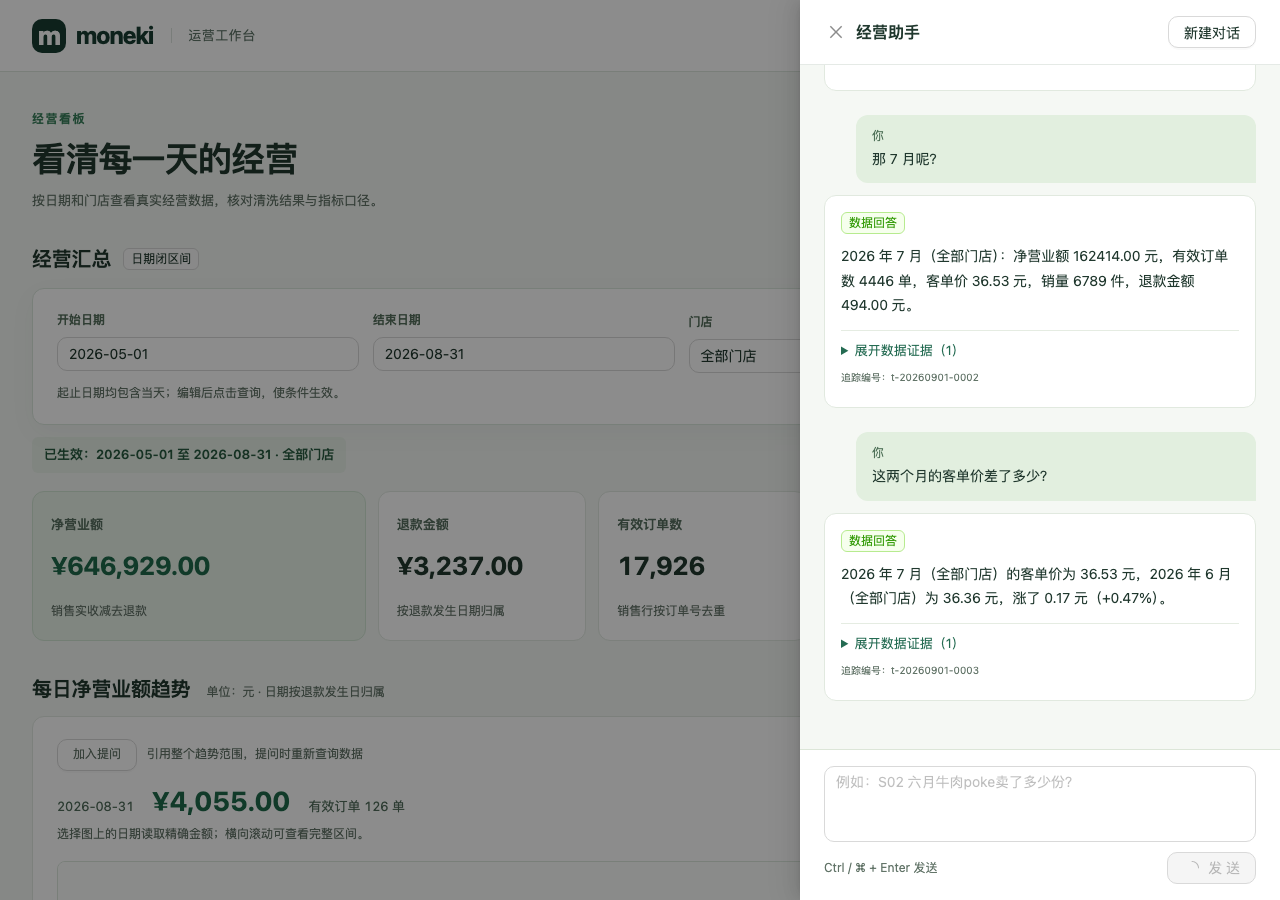
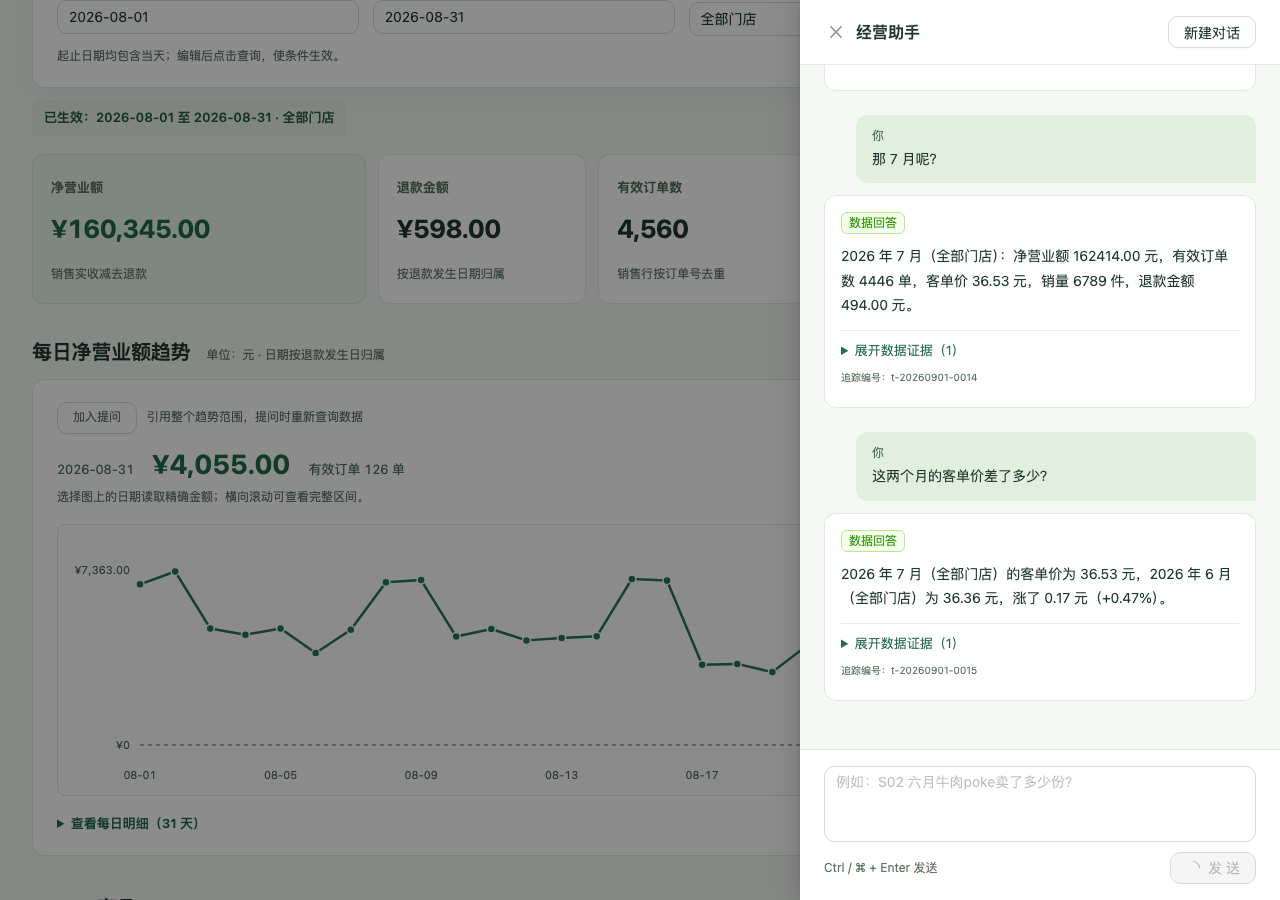
test(chat): verify dashboard filter changes do not alter follow-ups
Change the applied dashboard date between the first answer and the follow-up in actual browsers at three widths. Preserve the resulting request, response, trace, and screenshots to show the session continues with its own context and sends no implicit dashboard attachment.

Agent-Task: G3-04 / Issue #27 浏览器连续追问与筛选隔离验收
Agent-Model: GPT-6 Sol
Agent-Decision: Exercise a real applied dashboard filter change during the original T01 conversation so the acceptance checks the visible UI boundary.
Agent-Limitation: Browser run uses no-Key business execution; real-model semantic coverage remains the three authorized T01 chats only.

diff --git a/frontend/tests/g3-session-context.spec.ts b/frontend/tests/g3-session-context.spec.ts
@@ -12,12 +12,21 @@ for (const width of [1280, 1440, 390]) {
     await page.goto('/');
     await page.getByRole('button', { name: '经营助手', exact: true }).click();
     const turns = [];
-    for (const question of ['6 月的净营业额是多少？', '那 7 月呢？', '这两个月的客单价差了多少？']) {
+    for (const [index, question] of ['6 月的净营业额是多少？', '那 7 月呢？', '这两个月的客单价差了多少？'].entries()) {
+      if (index === 1) {
+        await page.getByRole('button', { name: 'Close' }).click();
+        await page.getByRole('textbox', { name: '开始日期' }).fill('2026-08-01');
+        await page.getByRole('textbox', { name: '结束日期' }).fill('2026-08-31');
+        await page.getByRole('button', { name: '查询汇总' }).click();
+        await expect(page.getByTestId('applied-filters')).toContainText('2026-08-01');
+        await page.getByRole('button', { name: '经营助手', exact: true }).click();
+      }
       await page.getByLabel('经营问题').fill(question);
       const sent = page.waitForRequest(r => r.url().endsWith('/api/chat'));
       const received = page.waitForResponse(r => r.url().endsWith('/api/chat'));
       await page.getByRole('button', { name: '发送', exact: true }).click();
       const payload = (await sent).postDataJSON();
+      expect(Object.keys(payload).sort()).toEqual(['question', 'session_id']);
       const answer = await (await received).json();
       const trace = await (await request.get(`/api/trace/${answer.trace_id}`)).json();
       turns.push({ payload, answer, trace });

diff --git a/docs/verification/g3-04/README.md b/docs/verification/g3-04/README.md
@@ -20,7 +20,7 @@
 
 独立运行 `.venv/bin/python -m pytest docs/verification/g3-04/test_session_context.py -q`，覆盖四组原顺序、替换门店/商品/月份、主题切换、澄清补充、拒答与异常断开旧语义、不同会话交错/API 并发、同会话等待、淘汰/重启/匿名、受控 live 工具调用。`starter/tests/conftest.py` 全局替换检索器，故原 53 项与本测试必须分进程运行。
 
-`browser/multiturn-{1280,1440,390}.json` 保存实际浏览器逐轮请求、响应与后端 trace；同名 PNG 保存聊天视图。`frontend/tests/g3-session-context.spec.ts` 同时核验新对话 ID、无上文澄清、旧请求迟到不进入新会话。看板筛选仍只由用户显式附加趋势引用进入聊天。刷新/服务重启后内存上下文不保证存在，欢迎页提示用户补全条件。
+`browser/multiturn-{1280,1440,390}.json` 保存实际浏览器逐轮请求、响应与后端 trace；同名 PNG 保存聊天视图。`frontend/tests/g3-session-context.spec.ts` 在首轮与追问之间把看板筛选改为 8 月，验证追问仍是同一会话的 7 月且请求无隐式 `context`；同时核验新对话 ID、无上文澄清、旧请求迟到不进入新会话。趋势引用仅在用户显式附加时进入聊天。刷新/服务重启后内存上下文不保证存在，欢迎页提示用户补全条件。
 
 会话历史上限 500 个 ID、每 ID 6 轮；拒答及执行异常清空该 ID 上下文，防止后续省略主语时回退到更旧且可能不相关的主题。澄清只保留中性缺项状态。
 
